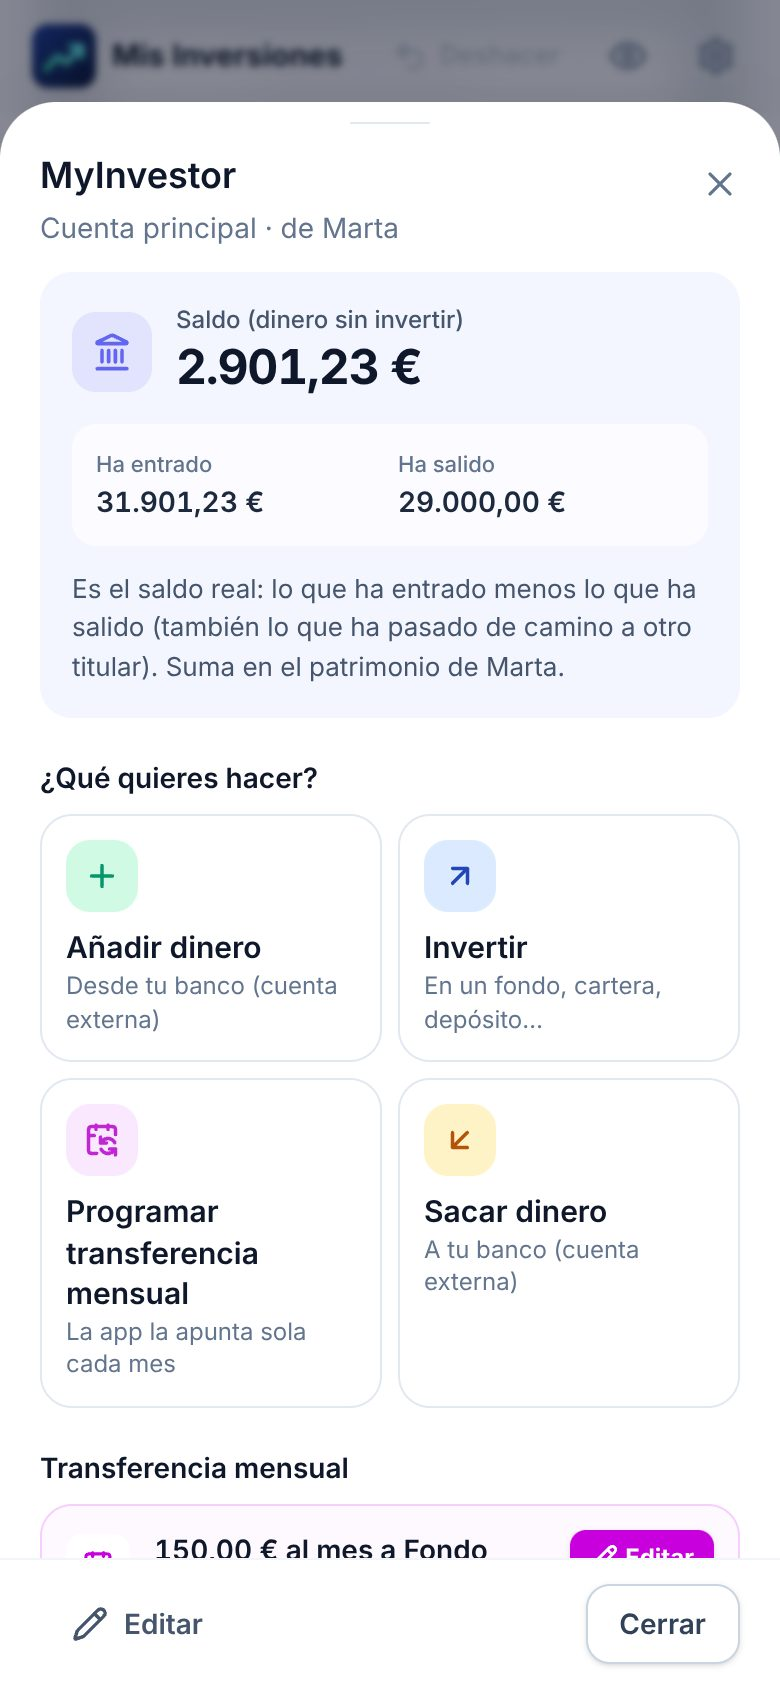
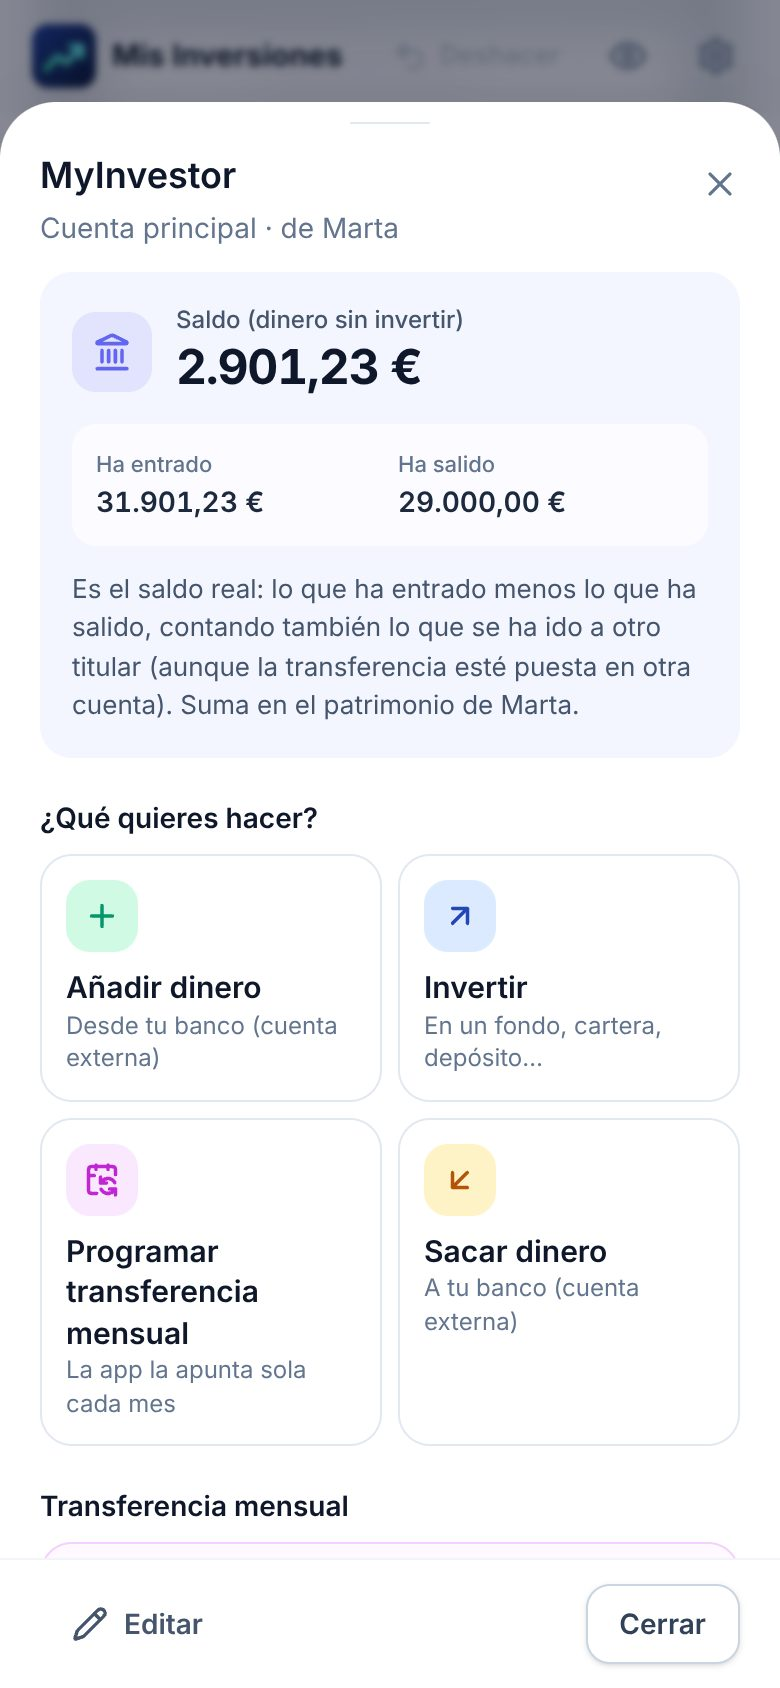
El saldo de MyInvestor es siempre el real (puede quedar en negativo) y el aviso de la ventana lo explica con el dinero que se va a otro titular

Changed region(s): [[0.0308, 0.3697, 0.8923, 0.9242], [0.5231, 0.4929, 0.8308, 0.8009], [0.7077, 0.8934, 0.9538, 0.9242]]

diff --git a/src/lib/finance.ts b/src/lib/finance.ts
@@ -453,18 +453,23 @@ function flujoDeCuentas(lk: Lookup, movs: Movimiento[], esPaso: DePaso, hasta?: 
 /**
  * El saldo real de una cuenta: lo que ha entrado menos lo que ha salido, menos el dinero que se ha
  * ido «de paso» a otro titular (lo apunte la cuenta que lo apunte: si se apunta desde una cuenta
- * externa suya, lo paga igual el dinero del titular). Nunca baja de 0 por lo «de paso»: si no hay
- * dinero, no se puede pagar. Devuelve también lo que no cuenta como entrada (`excluido`: entró y se
- * fue) para que no engorde lo aportado, y la cuenta tal y como la deja el apunte.
+ * externa suya, lo paga igual el dinero del titular). Puede quedar en negativo, como cualquier saldo
+ * real. Devuelve también lo que no cuenta como entrada (`excluido`: entró y se fue) para que no
+ * engorde lo aportado, y la cuenta tal y como la deja el apunte.
  */
 function saldoReal(f: FlujoCuenta): { saldo: number; excluido: number; entradas: number; salidas: number } {
   // Lo apuntado desde la propia cuenta: entra y se va (o se va de lo que ya había).
   const propios = Math.min(f.entradas, f.dePaso)
-  const entradas = f.entradas - propios
-  const salidas = f.salidas + f.dePaso - propios
-  // Lo apuntado desde otra cuenta suya: se paga con el dinero que hay, sin dejarlo en negativo.
-  const cargo = Math.min(f.extra, Math.max(0, entradas - salidas))
-  return { saldo: entradas - salidas - cargo, excluido: propios + cargo, entradas: entradas - cargo, salidas }
+  // Lo apuntado desde otra cuenta suya: sale de su dinero igual. De lo que entró y se fue, solo
+  // cuenta lo que de verdad llegó a entrar (si faltaba apuntar una entrada, no se resta dos veces).
+  const delExtra = Math.min(f.extra, Math.max(0, f.entradas - propios))
+  return {
+    // El saldo es el real: puede quedar en negativo si ha salido más de lo que entró.
+    saldo: f.entradas - f.salidas - f.dePaso - f.extra,
+    excluido: propios + delExtra,
+    entradas: f.entradas - propios - delExtra,
+    salidas: f.salidas + (f.dePaso - propios) + (f.extra - delExtra),
+  }
 }
 
 /**

diff --git a/src/store/data.test.ts b/src/store/data.test.ts
@@ -198,7 +198,9 @@ describe('entre titulares', () => {
     const f = finance()
     const a = f.byTitular.get(t1.id)!
     const b = f.byTitular.get(t2.id)!
-    expect(a.totals).toMatchObject({ patrimonio: 700, aportado: 700 })
+    // Los 200 € del «Fondo T2» salen de su bolsillo: se los quita de su MyInvestor (que se queda en
+    // −200), aunque el movimiento esté apuntado desde la «Nómina». No engordan su «Aportado».
+    expect(a.totals).toMatchObject({ patrimonio: 500, aportado: 700, efectivo: -200 })
     expect(b.totals).toMatchObject({ patrimonio: 200, aportado: 200 })
     expect(b.recibidoTotal).toBe(200)
     expect(b.recibido).toEqual([{ titularId: t1.id, importe: 200 }])

diff --git a/src/components/AccountSheet.tsx b/src/components/AccountSheet.tsx
@@ -116,7 +116,7 @@ export function AccountSheet({ modalId, cuentaId }: { modalId: string; cuentaId:
             </p>
           ) : (
             <p className="mt-3 text-[13px] text-slate-600">
-              Es el saldo real: lo que ha entrado menos lo que ha salido (también lo que ha pasado de camino a otro titular). Suma en el patrimonio de {titular?.nombre ?? 'su titular'}.
+              Es el saldo real: lo que ha entrado menos lo que ha salido, contando también lo que se ha ido a otro titular (aunque la transferencia esté puesta en otra cuenta). Suma en el patrimonio de {titular?.nombre ?? 'su titular'}.
             </p>
           )}
         </div>

diff --git a/README.md b/README.md
@@ -110,8 +110,8 @@ Sustituye al antiguo `Inversiones.xlsx` y mantiene sus mismos conceptos: titular
   pierda después), sino solo para quien lo recibe. Pero **el dinero sale de su bolsillo**: de su cuenta con saldo
   (MyInvestor), aunque la transferencia esté puesta en una cuenta externa suya (p. ej. la «Cuenta Nómina»). Así un
   ingreso de 1.000 € deja 547 € en MyInvestor cuando ese mes se van 453 € al «Fondo ahorro», y el saldo de
-  MyInvestor es el real (nunca se queda en negativo por esto: si no hay dinero, se paga solo lo que hay). Si el
-  dinero entró de fuera y se fue, no engorda el «Aportado». En la lista de MyInvestor no sale (solo la
+  MyInvestor es el real (puede quedar en negativo si ha salido más de lo que entró). Si el dinero entró de fuera y
+  se fue, no engorda el «Aportado». En la lista de MyInvestor no sale (solo la
   transferencia mensual, para poder cambiarla); en «Todos» los movimientos sale como «Aportación a Fondo ahorro» y
   en el flujo del dinero como «Aportaciones · Fondo ahorro». Se aplica a
   todo, **también a los meses ya apuntados**.
@@ -175,8 +175,8 @@ Aportado   = lo que ha entrado desde fuera (cuentas externas u otros titulares) 
 El dinero que va **de paso** a otro titular (p. ej. al «Fondo ahorro») no cuenta como aportado suyo y tampoco
 figura como entrada ni como salida de la cuenta, pero **sí baja el saldo de su cuenta con saldo** (MyInvestor): el
 mismo importe se resta de las dos cifras. Si la transferencia está puesta en una cuenta externa suya (la «Cuenta
-Nómina»), se paga igual con el dinero de MyInvestor. Nunca deja el saldo en negativo por este motivo: se paga solo
-lo que hay. Ese dinero, y lo que gane o pierda después, cuenta solo para quien lo recibe. Como todo se calcula
+Nómina»), se paga igual con el dinero de MyInvestor. El saldo es siempre el real: puede quedar en negativo si ha
+salido más de lo que entró. Ese dinero, y lo que gane o pierda después, cuenta solo para quien lo recibe. Como todo se calcula
 desde el primer movimiento, vale también para lo que ya estaba apuntado.
 
 Las cifras de cada titular van por separado: cada uno ve solo lo suyo. Solo la ventana **Total** (debajo del
